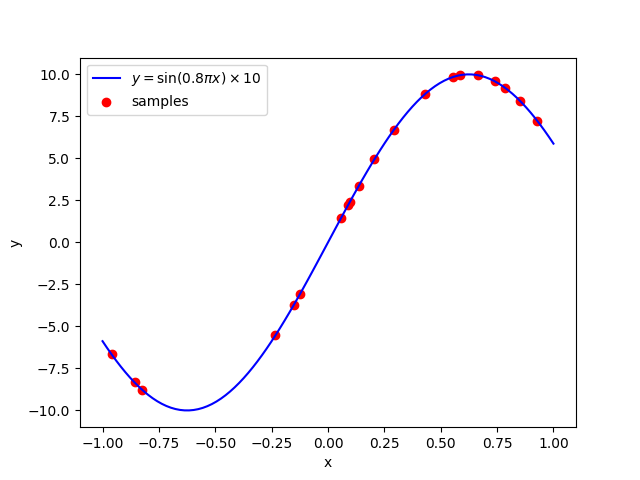
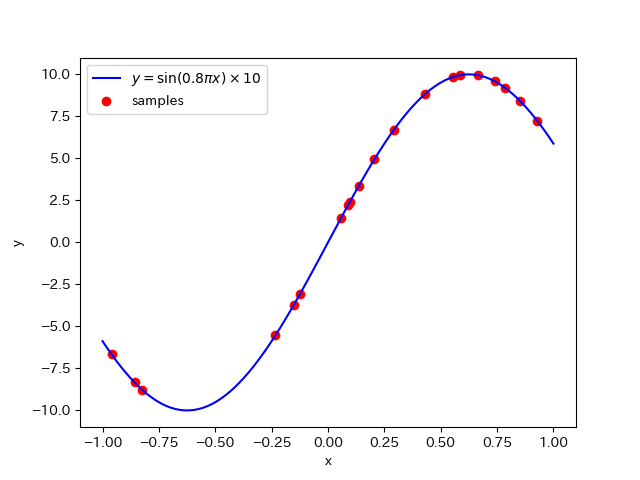
演習1.3

diff --git a/week3_exercise4/dataset1.py b/week3_exercise4/dataset1.py
@@ -2,6 +2,8 @@ import numpy as np
 import pandas as pd
 import matplotlib.pyplot as plt
 import unittest
+import japanize_matplotlib
+
 
 def true_function(x):
     return np.sin(np.pi * x * 0.8) * 10
@@ -57,5 +59,27 @@ if __name__ == "__main__":
     plt.scatter(df["観測点"], df["真値"], color="red", label="samples")
     plt.legend()
     plt.savefig("week3_exercise4/ex1.2.png")
+
+    plt.show()
+
+    # 演習1.3
+
+    x = np.linspace(-1, 1, 100)
+    y = true_function(x)
+
+    df = create_datasets()
+
+    noise = np.random.normal(loc=0.0, scale=np.sqrt(2.0), size=20)
+    noise_half = noise * 0.5
+
+    df["観測値"] = df["真値"] + noise_half
+
+    plt.xlabel('x')
+    plt.ylabel('y')
+    plt.plot(x, y, color="blue", label=r"$y = \sin(0.8 \pi x) \times 10$")
+    plt.scatter(df["観測点"], df["真値"], color="red", label="samples")
+    plt.scatter(df["観測点"], df["観測値"], color="green", label="観測値")
+    plt.legend()
+    plt.savefig("week3_exercise4/ex1.3.png")
 
     plt.show()
